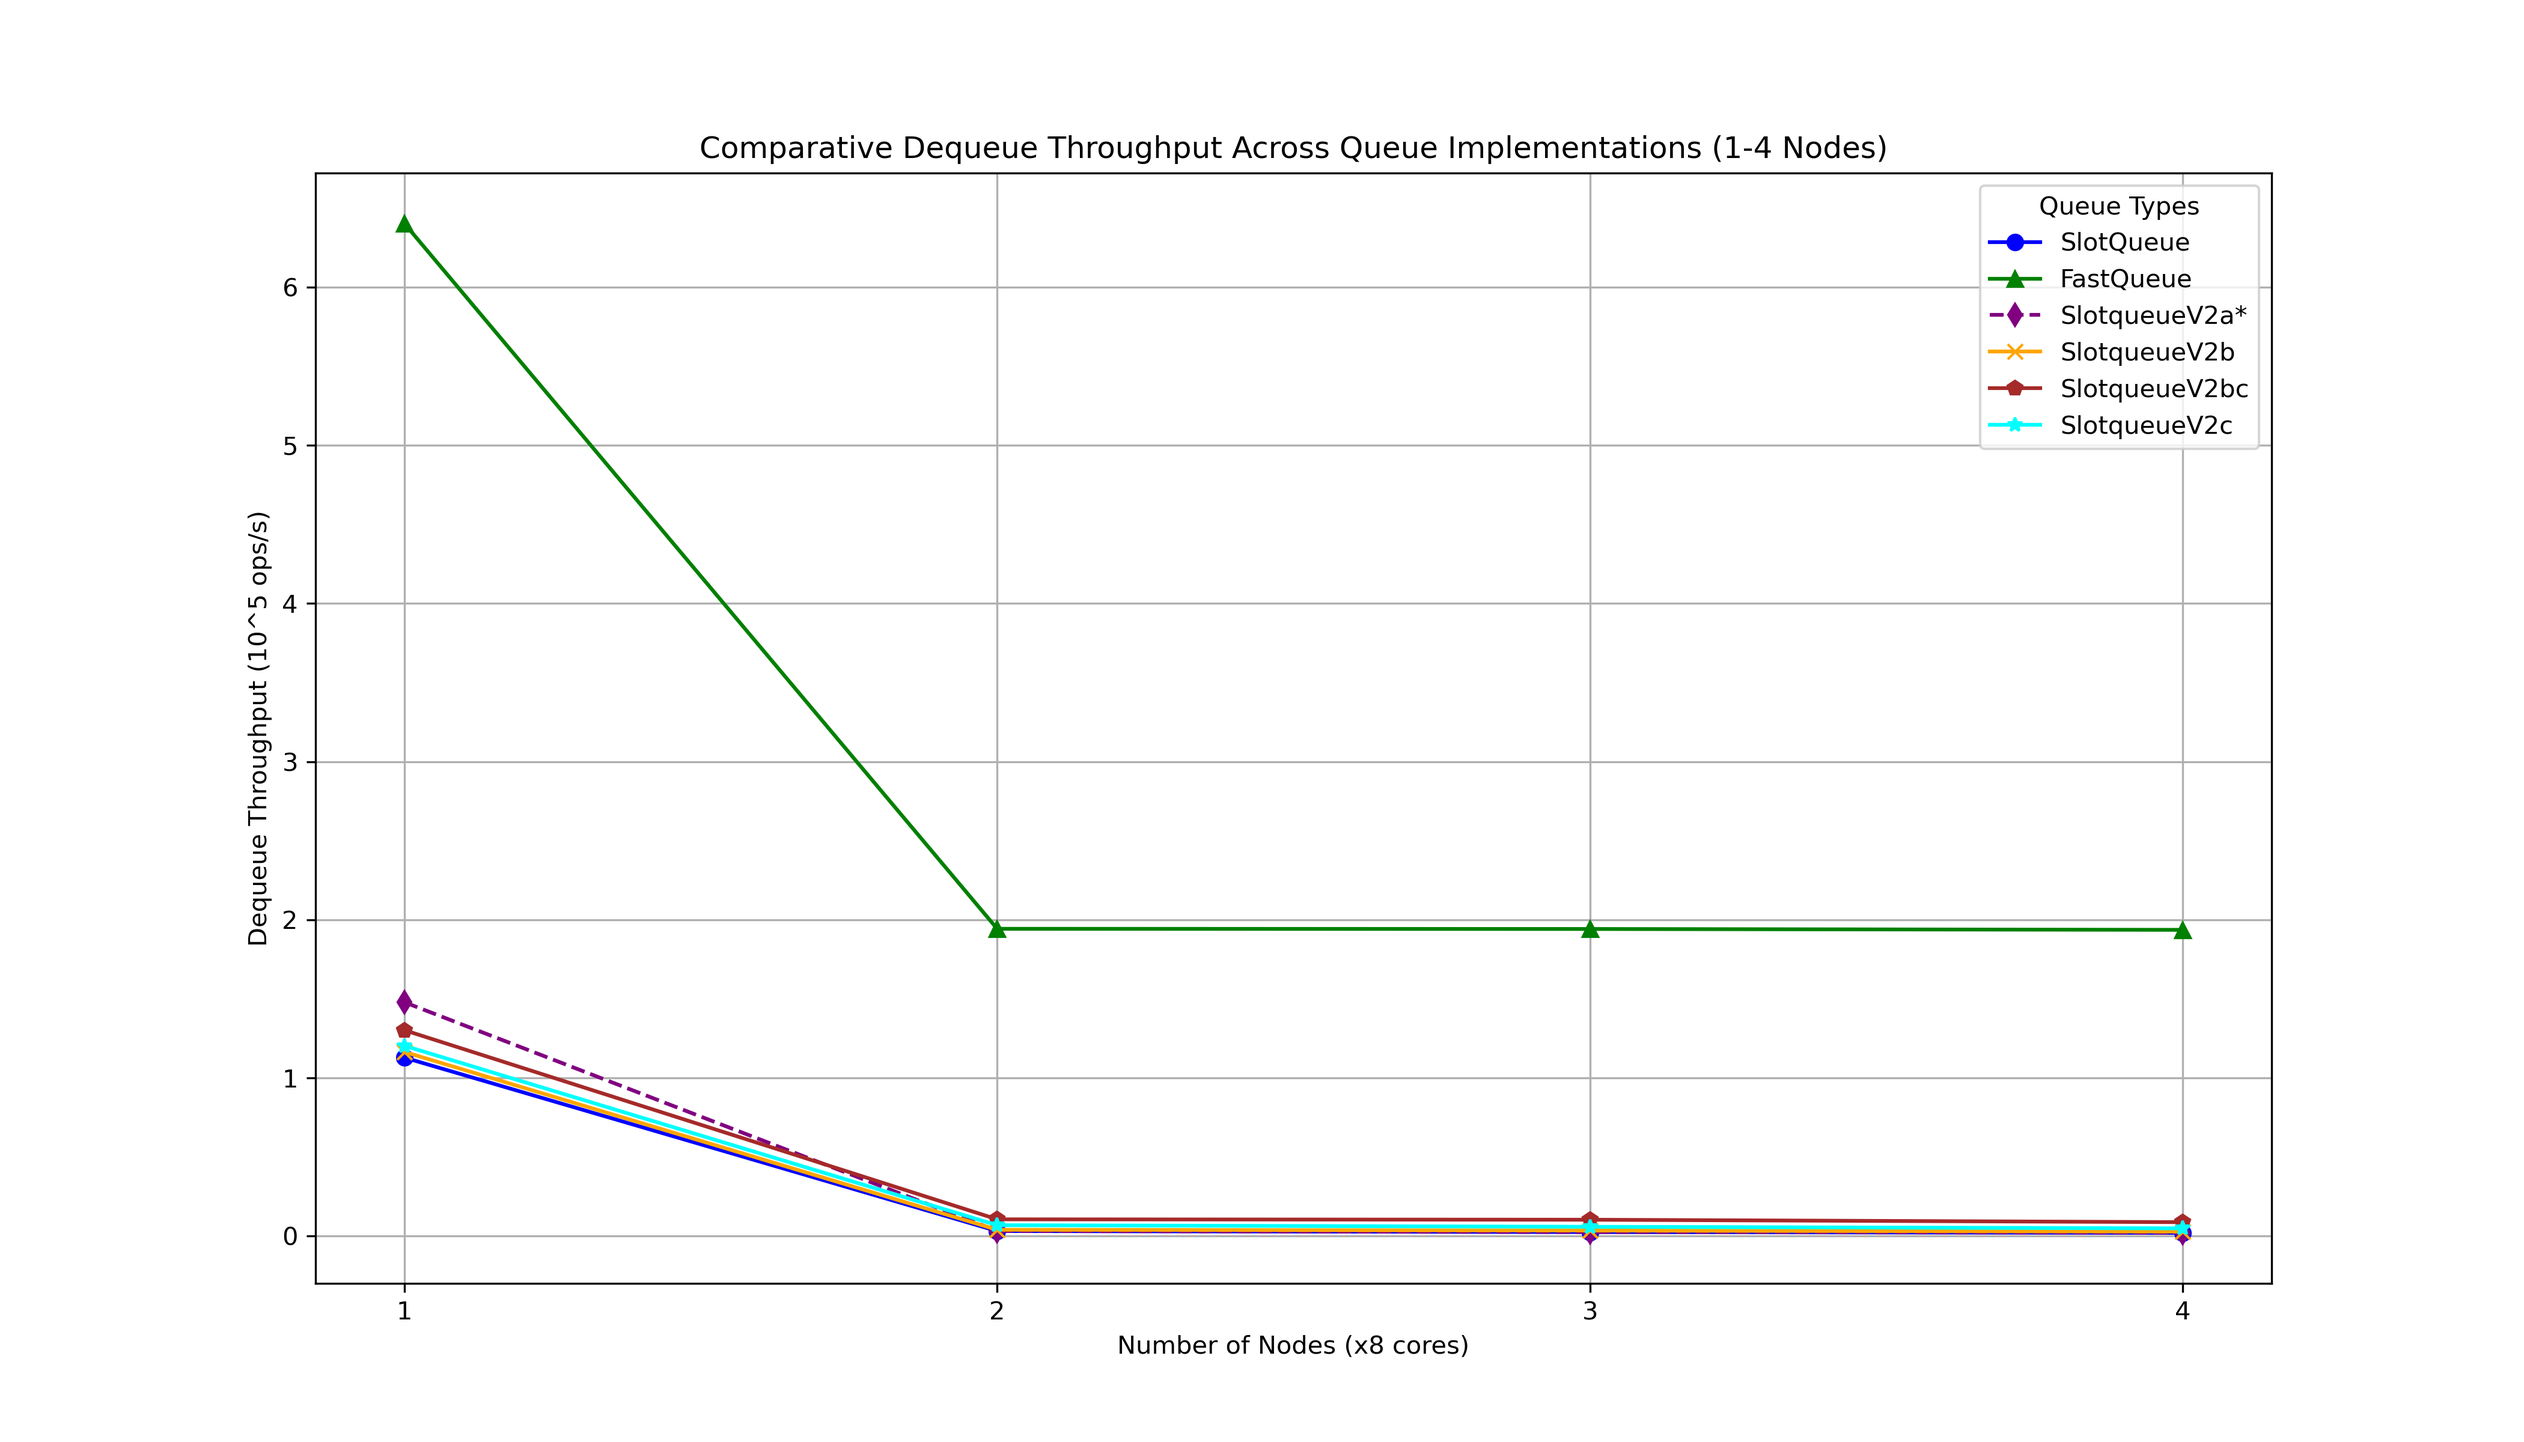
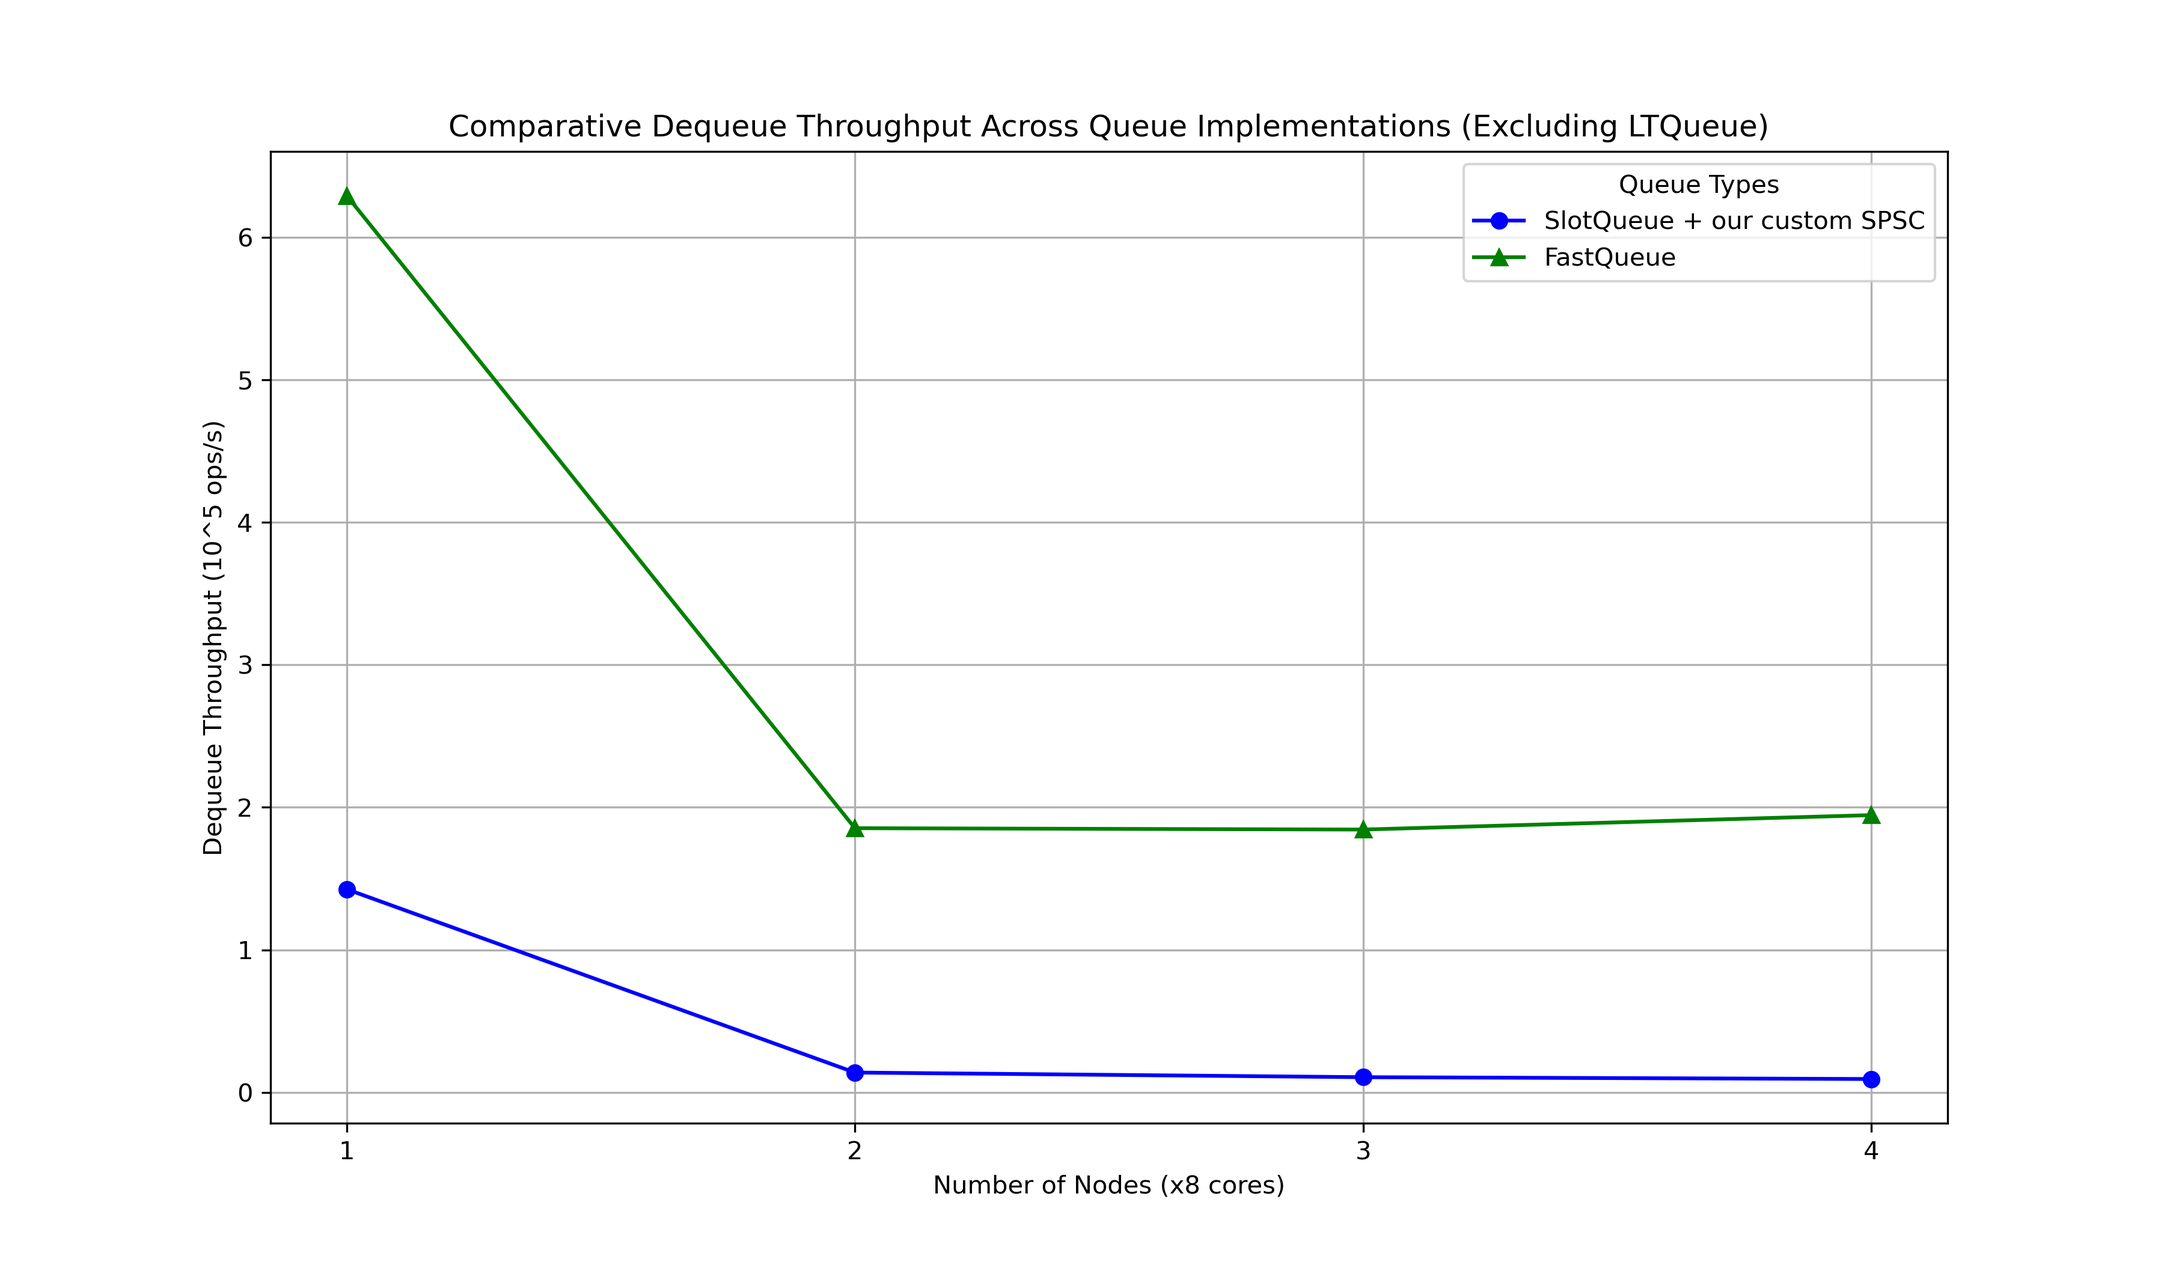
bench: add viz for experimental optimization

diff --git a/benches/microbenchmarks/single-one-queue/non-rdma-cluster/by-nodes.py b/benches/microbenchmarks/single-one-queue/non-rdma-cluster/by-nodes.py
@@ -10,54 +10,26 @@ nodes = [1, 2, 3, 4]
 
 # Data for different queues and metrics
 queue_data = {
-    "SlotQueue": {
-        "dequeue_throughput": [1.12841, 0.0318714, 0.025549, 0.0199796],
-        "dequeue_latency": [8.862, 313.761, 391.404, 500.51],
-        "enqueue_throughput": [4.79747, 0.765893, 0.66733, 0.378026],
-        "enqueue_latency": [14.591, 195.85, 344.657, 820.048],
-        "total_throughput": [2.25796, 0.0639021, 0.0514047, 0.0404188],
+    "SlotQueue + our custom SPSC": {
+        "dequeue_throughput": [1.42519, 0.139075, 0.106517, 0.0937151],
+        "dequeue_latency": [7.0166, 71.9036, 93.8814, 106.706],
+        "enqueue_throughput": [4.53904, 0.469878, 0.260319, 0.208068],
+        "enqueue_latency": [15.4218, 319.232, 883.531, 1489.9],
+        "total_throughput": [2.85181, 0.278846, 0.214313, 0.189586],
     },
-    "LTQueue": {
-        "dequeue_throughput": [0.424427, 0.00682855, 0.00541103, 0.00414144],
-        "dequeue_latency": [23.5612, 1464.44, 1848.08, 2414.62],
-        "enqueue_throughput": [0.970297, 0.0302003, 0.0251621, 0.0170012],
-        "enqueue_latency": [72.1429, 4966.83, 9140.75, 18234],
-        "total_throughput": [0.849278, 0.0136912, 0.010887, 0.00837814],
+    "LTQueue + our custom SPSC": {
+        "dequeue_throughput": [0.429609, 0.0073331, 0.00506922, 0.00420328],
+        "dequeue_latency": [23.277, 1363.68, 1972.69, 2379.1],
+        "enqueue_throughput": [1.01365, 0.0318447, 0.0237135, 0.0169779],
+        "enqueue_latency": [69.0573, 4710.36, 9699.1, 18259.1],
+        "total_throughput": [0.859647, 0.0147029, 0.0101993, 0.00850323],
     },
     "FastQueue": {
-        "dequeue_throughput": [6.40287, 1.94303, 1.94182, 1.93633],
-        "dequeue_latency": [1.5618, 5.1466, 5.1498, 5.1644],
-        "enqueue_throughput": [4.26299, 0.54858, 0.437161, 0.340829],
-        "enqueue_latency": [16.4204, 273.433, 526.121, 909.546],
-        "total_throughput": [8.06712, 0.58171, 0.588145, 0.512203],
-    },
-    "SlotqueueV2a": {
-        "dequeue_throughput": [1.47859, 0.0326036, 0.0255839, 0.0217996],
-        "dequeue_latency": [6.7632, 306.714, 390.871, 458.725],
-        "enqueue_throughput": [4.61825, 0.822099, 0.618566, 0.476086],
-        "enqueue_latency": [15.1572, 182.46, 371.828, 651.143],
-        "total_throughput": [2.95866, 0.0653703, 0.0514748, 0.0441005],
-    },
-    "SlotqueueV2b": {
-        "dequeue_throughput": [1.16444, 0.0397495, 0.0352721, 0.0281847],
-        "dequeue_latency": [8.5878, 251.575, 283.51, 354.803],
-        "enqueue_throughput": [3.99715, 0.297802, 0.258851, 0.18849],
-        "enqueue_latency": [17.5125, 503.691, 888.544, 1644.65],
-        "total_throughput": [2.33005, 0.0796978, 0.0709675, 0.0570176],
-    },
-    "SlotqueueV2bc": {
-        "dequeue_throughput": [1.30191, 0.105914, 0.103376, 0.0878917],
-        "dequeue_latency": [7.681, 94.4166, 96.7338, 113.776],
-        "enqueue_throughput": [3.95019, 0.29763, 0.244308, 0.177258],
-        "enqueue_latency": [17.7207, 503.982, 941.435, 1748.87],
-        "total_throughput": [2.60513, 0.212357, 0.207993, 0.177805],
-    },
-    "SlotqueueV2c": {
-        "dequeue_throughput": [1.20337, 0.068702, 0.058669, 0.0487821],
-        "dequeue_latency": [8.31, 145.556, 170.448, 204.993],
-        "enqueue_throughput": [4.50501, 0.768201, 0.664723, 0.534115],
-        "enqueue_latency": [15.5383, 195.261, 346.009, 580.399],
-        "total_throughput": [2.40794, 0.137747, 0.118042, 0.0986861],
+        "dequeue_throughput": [6.29168, 1.8535, 1.84393, 1.94522],
+        "dequeue_latency": [1.5894, 5.3952, 5.4232, 5.1408],
+        "enqueue_throughput": [4.89333, 0.496313, 0.346763, 0.314497],
+        "enqueue_latency": [14.3052, 302.229, 663.278, 985.7],
+        "total_throughput": [9.23361, 0.509056, 0.47709, 0.478288],
     },
 }
 
@@ -81,8 +53,8 @@ metric_labels = {
 
 # Color and marker styles for each queue
 queue_styles = {
-    "SlotQueue": {"color": "blue", "marker": "o"},
-    "LTQueue": {"color": "red", "marker": "s"},
+    "SlotQueue + our custom SPSC": {"color": "blue", "marker": "o"},
+    "LTQueue + our custom SPSC": {"color": "red", "marker": "s"},
     "FastQueue": {"color": "green", "marker": "^"},
     "SlotqueueV2a": {"color": "purple", "marker": "d", "linestyle": "--"},
     "SlotqueueV2b": {"color": "orange", "marker": "x"},
@@ -104,7 +76,7 @@ for metric in metrics:
             color=style["color"],
             marker=style["marker"],
             linestyle=style.get("linestyle", "-"),
-            label=f"{queue_name}{'*' if queue_name == 'SlotqueueV2a' else ''}",
+            label=queue_name,
         )
 
     # Set title and labels
@@ -122,28 +94,27 @@ for metric in metrics:
 
     # Save the plot
     filename = f"{output_dir}/{metric}_comparison.png"
-    plt.savefig(filename)
+    plt.savefig(filename, dpi=300)
     plt.close()  # Close the figure to free up memory
 
 print(
     "All comparative plots have been generated in the 'non-rdma-cluster/all/by-nodes' folder."
 )
-print(
-    "Note: SlotqueueV2a is marked with an asterisk (*) in the legend to indicate it is experimental."
-)
 
-# Ensure the output directory exists
-output_dir = "non-rdma-cluster/no-ltqueue/by-nodes/"
+# Ensure the output directory exists for the second set of plots
+output_dir = "non-rdma-cluster/no-ltqueue/by-nodes"
 os.makedirs(output_dir, exist_ok=True)
 
-# Generate merged plots for each metric
+# Generate merged plots for each metric (excluding LTQueue)
 for metric in metrics:
     # Create a new figure for each metric
-    plt.figure(figsize=(14, 8))
+    plt.figure(figsize=(12, 7))
 
     # Plot data for each queue
     for queue_name, queue_metrics in queue_data.items():
-        if queue_name != "LTQueue":  # Exclude LTQueue for this set of plots
+        if (
+            queue_name != "LTQueue + our custom SPSC"
+        ):  # Exclude LTQueue for this set of plots
             style = queue_styles[queue_name]
             plt.plot(
                 nodes,
@@ -151,12 +122,12 @@ for metric in metrics:
                 color=style["color"],
                 marker=style["marker"],
                 linestyle=style.get("linestyle", "-"),
-                label=f"{queue_name}{'*' if queue_name == 'SlotqueueV2a' else ''}",
+                label=queue_name,
             )
 
     # Set title and labels
     title, unit = metric_labels[metric]
-    plt.title(f"Comparative {title} Across Queue Implementations (1-4 Nodes)")
+    plt.title(f"Comparative {title} Across Queue Implementations (Excluding LTQueue)")
     plt.xlabel("Number of Nodes (x8 cores)")
     plt.ylabel(f"{title} ({unit})")
 
@@ -174,8 +145,4 @@ for metric in metrics:
 
 print(
     "All comparative plots have been generated in the 'non-rdma-cluster/no-ltqueue/by-nodes' folder."
-)
-
-print(
-    "Note: SlotqueueV2a is marked with an asterisk (*) in the legend to indicate it is experimental."
 )
